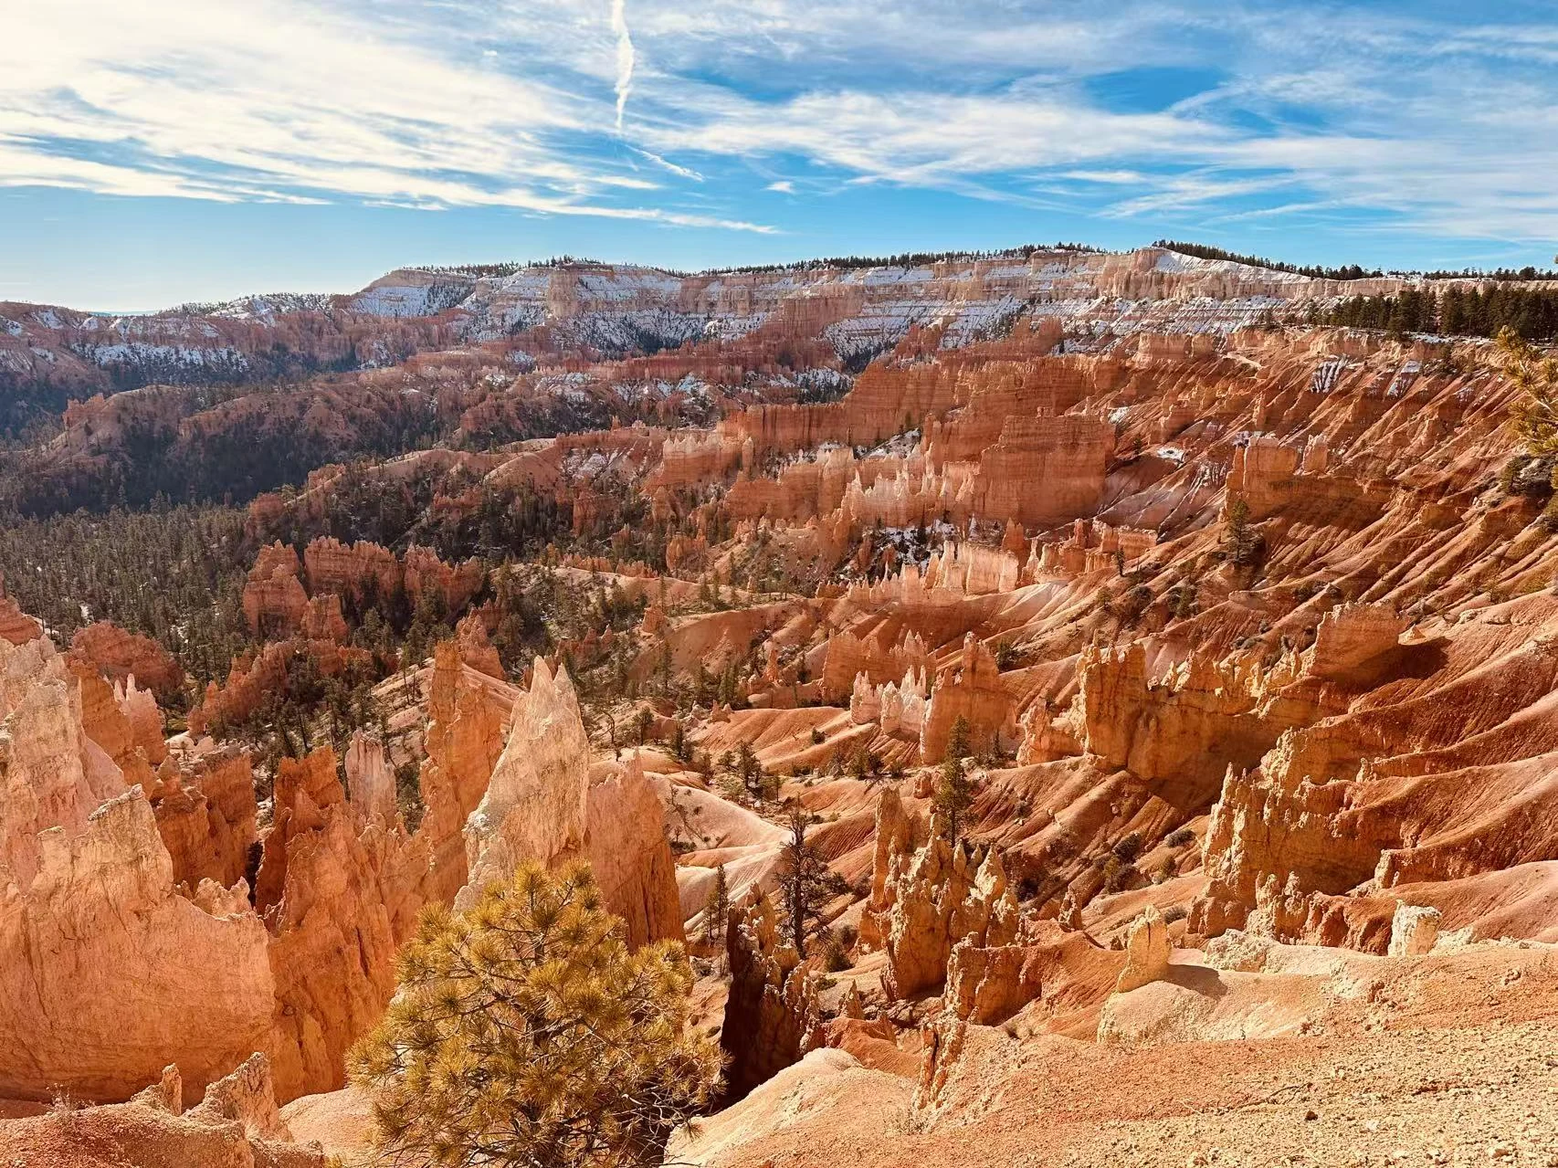
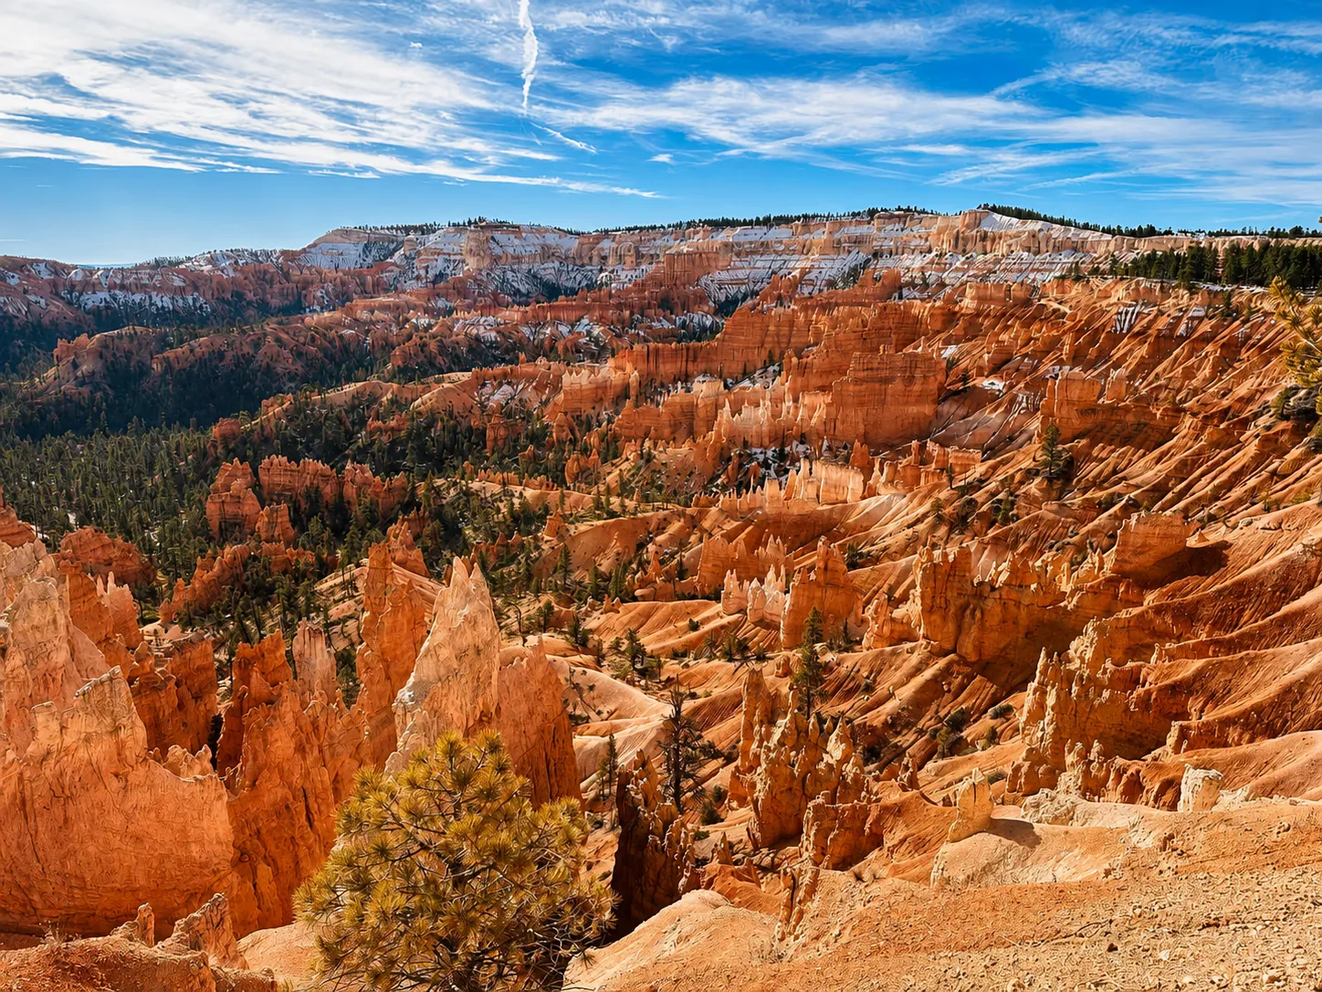
optimize performance: webp images and content-visibility
- convert 18 large jpg/png assets to webp, cutting page weight ~70%
  (home 5.5MB -> 1.6MB, visual-work ~8MB -> 1.3MB)
- add content-visibility:auto to sections for smoother scrolling (164fps)
- sync image references and test contracts to webp paths

diff --git a/index.html b/index.html
@@ -132,7 +132,7 @@ html[lang="zh"] .nav .brand .en{font-family:var(--mono);}
 
 /* ---------- layout primitives ---------- */
 .wrap{max-width:var(--maxw);margin:0 auto;padding-left:var(--gut);padding-right:var(--gut);}
-section{position:relative;}
+section{position:relative;content-visibility:auto;contain-intrinsic-size:auto 900px;}
 .band{padding-block:clamp(88px,12vw,168px);}
 .divider{height:1px;background:var(--line);max-width:var(--maxw);margin:0 auto;}
 
@@ -376,7 +376,7 @@ html.js.motion-desktop [data-reveal="line"]::after,html.js.motion-desktop .lineg
       </div>
       <figure class="portrait" data-reveal="img" data-parallax="0.03">
         <div class="pframe">
-          <img src="assets/portrait/portrait.jpg" alt="Portrait of Mukun Sun" loading="lazy" decoding="async">
+          <img src="assets/portrait/portrait.webp" alt="Portrait of Mukun Sun" loading="lazy" decoding="async">
           <span class="pglow" aria-hidden="true"></span>
         </div>
         <figcaption class="pcap"></figcaption>
@@ -408,7 +408,7 @@ html.js.motion-desktop [data-reveal="line"]::after,html.js.motion-desktop .lineg
             <a class="experience-link" href="projects/vertex-reddit.html">Learn more about this <span aria-hidden="true">→</span></a>
           </div>
           <figure class="experience-media" data-reveal="img">
-            <img src="assets/internship/VertexMkt/1.jpg" width="1279" height="1706" alt="A bright shared workspace at Vertex Marketing in Shenzhen" loading="lazy" decoding="async">
+            <img src="assets/internship/VertexMkt/1.webp" width="1279" height="1706" alt="A bright shared workspace at Vertex Marketing in Shenzhen" loading="lazy" decoding="async">
           </figure>
         </div>
       </article>
@@ -424,7 +424,7 @@ html.js.motion-desktop [data-reveal="line"]::after,html.js.motion-desktop .lineg
             <a class="experience-link" href="projects/suu-teaching-assistant.html">Learn more about this <span aria-hidden="true">→</span></a>
           </div>
           <figure class="experience-media" data-reveal="img">
-            <img src="assets/internship/SUU_TA/classroom.jpg" width="1921" height="1279" alt="Mukun Sun speaking to an English writing class in Wuhan" loading="lazy" decoding="async">
+            <img src="assets/internship/SUU_TA/classroom.webp" width="1921" height="1279" alt="Mukun Sun speaking to an English writing class in Wuhan" loading="lazy" decoding="async">
           </figure>
         </div>
       </article>
@@ -453,19 +453,19 @@ html.js.motion-desktop [data-reveal="line"]::after,html.js.motion-desktop .lineg
     <div class="project-list">
       <a class="project-row project-row--campus" href="projects/campus-campaign.html" data-reveal>
         <span class="project-copy"><strong>Campus Integrated Campaign</strong><span>Promotion coordination for campus welcome and New Year events across online and offline channels.</span></span>
-        <span class="project-preview"><img src="assets/project/CampusGala/freshmen_welcome_gala.jpg" width="1600" height="1067" alt="A large campus gala audience facing a lit stage" loading="lazy" decoding="async"></span>
+        <span class="project-preview"><img src="assets/project/CampusGala/freshmen_welcome_gala.webp" width="1600" height="1067" alt="A large campus gala audience facing a lit stage" loading="lazy" decoding="async"></span>
         <span class="project-action">View project <span aria-hidden="true">→</span></span>
       </a>
 
       <a class="project-row project-row--hotel" href="projects/hotel-jazz.html" data-reveal>
         <span class="project-copy"><strong>Hotel × Jazz Brand Event</strong><span>Event concept, partner coordination, WeChat promotion, and visual identity for a hotel × jazz collaboration.</span></span>
-        <span class="project-preview"><img src="assets/project/Andi/andi_fest_2.png" width="1039" height="462" alt="Jazz musicians performing at a hotel beside an upright bass" loading="lazy" decoding="async"></span>
+        <span class="project-preview"><img src="assets/project/Andi/andi_fest_2.webp" width="1039" height="462" alt="Jazz musicians performing at a hotel beside an upright bass" loading="lazy" decoding="async"></span>
         <span class="project-action">View project <span aria-hidden="true">→</span></span>
       </a>
 
       <a class="project-row project-row--visual" href="projects/visual-work.html" data-reveal>
         <span class="project-copy"><strong>Selected Visual Work</strong><span>A selected archive of posters, print design, event visuals, and photography.</span></span>
-        <span class="project-preview"><img src="assets/visual_work/jazz_winter.jpg" width="989" height="1400" alt="Winter Jazz Concert key visual poster designed for a hotel jazz event" loading="lazy" decoding="async"></span>
+        <span class="project-preview"><img src="assets/visual_work/jazz_winter.webp" width="989" height="1400" alt="Winter Jazz Concert key visual poster designed for a hotel jazz event" loading="lazy" decoding="async"></span>
         <span class="project-action">View project <span aria-hidden="true">→</span></span>
       </a>
     </div>
@@ -520,7 +520,7 @@ html.js.motion-desktop [data-reveal="line"]::after,html.js.motion-desktop .lineg
     <div class="outside-gateway" data-reveal>
       <div class="outside-grid">
         <a class="outside-card outside-card--music" href="music.html">
-          <span class="outside-media"><img src="assets/music/suu_jazz_fest/performance.jpg" width="896" height="1193" alt="Mukun Sun performing upright bass at SUU Jazz Fest" loading="lazy" decoding="async"></span>
+          <span class="outside-media"><img src="assets/music/suu_jazz_fest/performance.webp" width="896" height="1193" alt="Mukun Sun performing upright bass at SUU Jazz Fest" loading="lazy" decoding="async"></span>
           <strong>Music</strong>
           <p>Upright and electric bass performance, ensemble work, and the planning behind live events.</p>
         </a>
@@ -530,7 +530,7 @@ html.js.motion-desktop [data-reveal="line"]::after,html.js.motion-desktop .lineg
           <p>Small studies in performance, objects, light, and atmosphere.</p>
         </a>
         <a class="outside-card outside-card--travel" href="travel.html">
-          <span class="outside-media"><img src="assets/travel/bryce_canyon.png" width="1448" height="1086" alt="Bryce Canyon amphitheater in warm afternoon light" loading="lazy" decoding="async"></span>
+          <span class="outside-media"><img src="assets/travel/bryce_canyon.webp" width="1448" height="1086" alt="Bryce Canyon amphitheater in warm afternoon light" loading="lazy" decoding="async"></span>
           <strong>Travel</strong>
           <p>Notes from cities and landscapes that sharpen how I notice culture, rhythm, and everyday detail.</p>
         </a>

diff --git a/projects/visual-work.html b/projects/visual-work.html
@@ -40,7 +40,7 @@
 
   <main class="detail-wrap">
     <header class="detail-hero" id="visual-hero" data-outside-hero data-reveal>
-      <div class="outside-hero-media" aria-hidden="true"><img src="../assets/visual_work/hotone_main.jpg" width="1486" height="2106" alt="" decoding="async"></div>
+      <div class="outside-hero-media" aria-hidden="true"><img src="../assets/visual_work/hotone_main.webp" width="1486" height="2106" alt="" decoding="async"></div>
       <h1>Selected Visual Work</h1>
       <div class="detail-hero-copy">
         <p class="detail-eyebrow">Visual Work</p>
@@ -51,13 +51,13 @@
     <section class="detail-section" id="visual-gallery" aria-labelledby="visual-gallery-title" data-reveal>
       <h2 id="visual-gallery-title" class="visually-hidden">Selected Visual Work</h2>
       <div class="detail-grid visual-grid">
-        <figure class="detail-media visual-feature" data-reveal="media"><a class="media-button" href="../assets/visual_work/hotone_main.jpg" data-enlarge><img src="../assets/visual_work/hotone_main.jpg" width="1486" height="2106" alt="HOTONE tenth-anniversary product poster for the Ampero II Stomp" loading="lazy" decoding="async"></a><figcaption>HOTONE · Tenth-Anniversary Poster</figcaption></figure>
-        <figure class="detail-media" data-reveal="media"><a class="media-button" href="../assets/visual_work/hotone_guitar.jpg" data-enlarge><img src="../assets/visual_work/hotone_guitar.jpg" width="1141" height="1626" alt="HOTONE product poster featuring an electric guitar and effects processor" loading="lazy" decoding="async"></a><figcaption>HOTONE · Release Your Musical Passion</figcaption></figure>
-        <figure class="detail-media" data-reveal="media"><a class="media-button" href="../assets/visual_work/hotone_pedal.jpg" data-enlarge><img src="../assets/visual_work/hotone_pedal.jpg" width="1322" height="1880" alt="HOTONE Ampero II Stomp product-detail poster" loading="lazy" decoding="async"></a><figcaption>HOTONE · Ampero II Stomp Detail</figcaption></figure>
-        <figure class="detail-media" data-reveal="media"><a class="media-button" href="../assets/visual_work/jazz_coast_a.png" data-enlarge><img src="../assets/visual_work/jazz_coast_a.png" width="1086" height="1448" alt="Coastline JAZZ NIGHT concert poster in magenta and deep blue" loading="lazy" decoding="async"></a><figcaption>JAZZ NIGHT · Coastline</figcaption></figure>
-        <figure class="detail-media" data-reveal="media"><a class="media-button" href="../assets/visual_work/jazz_coast_b.png" data-enlarge><img src="../assets/visual_work/jazz_coast_b.png" width="1086" height="1448" alt="Coastline JAZZ NIGHT poster variation in orange and dark red" loading="lazy" decoding="async"></a><figcaption>JAZZ NIGHT · Variation</figcaption></figure>
-        <figure class="detail-media visual-feature" data-reveal="media"><a class="media-button" href="../assets/visual_work/jazz_winter.jpg" data-enlarge><img src="../assets/visual_work/jazz_winter.jpg" width="989" height="1400" alt="Winter Jazz Concert key visual poster designed for a hotel jazz event" loading="lazy" decoding="async"></a><figcaption>Winter Jazz Concert · Hotel Event Visual</figcaption></figure>
-        <figure class="detail-media visual-feature" data-reveal="media"><a class="media-button" href="../assets/visual_work/banner_museum.png" data-enlarge><img src="../assets/visual_work/banner_museum.png" width="1983" height="793" alt="International Museum Day banner for Wuhan Museum" loading="lazy" decoding="async"></a><figcaption>International Museum Day · Wuhan Museum</figcaption></figure>
+        <figure class="detail-media visual-feature" data-reveal="media"><a class="media-button" href="../assets/visual_work/hotone_main.webp" data-enlarge><img src="../assets/visual_work/hotone_main.webp" width="1486" height="2106" alt="HOTONE tenth-anniversary product poster for the Ampero II Stomp" loading="lazy" decoding="async"></a><figcaption>HOTONE · Tenth-Anniversary Poster</figcaption></figure>
+        <figure class="detail-media" data-reveal="media"><a class="media-button" href="../assets/visual_work/hotone_guitar.webp" data-enlarge><img src="../assets/visual_work/hotone_guitar.webp" width="1141" height="1626" alt="HOTONE product poster featuring an electric guitar and effects processor" loading="lazy" decoding="async"></a><figcaption>HOTONE · Release Your Musical Passion</figcaption></figure>
+        <figure class="detail-media" data-reveal="media"><a class="media-button" href="../assets/visual_work/hotone_pedal.webp" data-enlarge><img src="../assets/visual_work/hotone_pedal.webp" width="1322" height="1880" alt="HOTONE Ampero II Stomp product-detail poster" loading="lazy" decoding="async"></a><figcaption>HOTONE · Ampero II Stomp Detail</figcaption></figure>
+        <figure class="detail-media" data-reveal="media"><a class="media-button" href="../assets/visual_work/jazz_coast_a.webp" data-enlarge><img src="../assets/visual_work/jazz_coast_a.webp" width="1086" height="1448" alt="Coastline JAZZ NIGHT concert poster in magenta and deep blue" loading="lazy" decoding="async"></a><figcaption>JAZZ NIGHT · Coastline</figcaption></figure>
+        <figure class="detail-media" data-reveal="media"><a class="media-button" href="../assets/visual_work/jazz_coast_b.webp" data-enlarge><img src="../assets/visual_work/jazz_coast_b.webp" width="1086" height="1448" alt="Coastline JAZZ NIGHT poster variation in orange and dark red" loading="lazy" decoding="async"></a><figcaption>JAZZ NIGHT · Variation</figcaption></figure>
+        <figure class="detail-media visual-feature" data-reveal="media"><a class="media-button" href="../assets/visual_work/jazz_winter.webp" data-enlarge><img src="../assets/visual_work/jazz_winter.webp" width="989" height="1400" alt="Winter Jazz Concert key visual poster designed for a hotel jazz event" loading="lazy" decoding="async"></a><figcaption>Winter Jazz Concert · Hotel Event Visual</figcaption></figure>
+        <figure class="detail-media visual-feature" data-reveal="media"><a class="media-button" href="../assets/visual_work/banner_museum.webp" data-enlarge><img src="../assets/visual_work/banner_museum.webp" width="1983" height="793" alt="International Museum Day banner for Wuhan Museum" loading="lazy" decoding="async"></a><figcaption>International Museum Day · Wuhan Museum</figcaption></figure>
       </div>
     </section>
   </main>

diff --git a/projects/suu-teaching-assistant.html b/projects/suu-teaching-assistant.html
@@ -37,7 +37,7 @@
 
   <main class="detail-wrap">
     <header class="detail-hero" id="teaching-hero" data-outside-hero data-reveal>
-      <div class="outside-hero-media" aria-hidden="true"><img src="../assets/internship/SUU_TA/classroom.jpg" width="1921" height="1279" alt="" decoding="async"></div>
+      <div class="outside-hero-media" aria-hidden="true"><img src="../assets/internship/SUU_TA/classroom.webp" width="1921" height="1279" alt="" decoding="async"></div>
       <h1>Teaching Assistant</h1>
       <div class="detail-hero-copy">
         <p class="detail-eyebrow">Southern Utah University · Internship</p>
@@ -69,8 +69,8 @@
     <section class="detail-section" id="teaching-media" aria-labelledby="teaching-media-title" data-reveal>
       <h2 id="teaching-media-title">In the Classroom</h2>
       <div class="detail-grid">
-        <figure class="detail-media" data-reveal="media"><a class="media-button" href="../assets/internship/SUU_TA/professor_classroom.jpg" data-enlarge><img src="../assets/internship/SUU_TA/professor_classroom.jpg" width="1279" height="1706" alt="An SUU instructor leading an English writing class in Wuhan" loading="lazy" decoding="async"></a><figcaption>English writing course · Wuhan</figcaption></figure>
-        <figure class="detail-media" data-reveal="media"><a class="media-button" href="../assets/internship/SUU_TA/with_professor.jpg" data-enlarge><img src="../assets/internship/SUU_TA/with_professor.jpg" width="1706" height="1279" alt="Mukun Sun with the SUU instructor after the teaching period" loading="lazy" decoding="async"></a><figcaption>After the teaching period · May 2026</figcaption></figure>
+        <figure class="detail-media" data-reveal="media"><a class="media-button" href="../assets/internship/SUU_TA/professor_classroom.webp" data-enlarge><img src="../assets/internship/SUU_TA/professor_classroom.webp" width="1279" height="1706" alt="An SUU instructor leading an English writing class in Wuhan" loading="lazy" decoding="async"></a><figcaption>English writing course · Wuhan</figcaption></figure>
+        <figure class="detail-media" data-reveal="media"><a class="media-button" href="../assets/internship/SUU_TA/with_professor.webp" data-enlarge><img src="../assets/internship/SUU_TA/with_professor.webp" width="1706" height="1279" alt="Mukun Sun with the SUU instructor after the teaching period" loading="lazy" decoding="async"></a><figcaption>After the teaching period · May 2026</figcaption></figure>
       </div>
     </section>
   </main>

diff --git a/music.html b/music.html
@@ -78,7 +78,7 @@
           <p>Named a finalist, then organized rehearsals and coordinated the band for a performance at the SUU Alumni Center. Upright bass.</p>
         </div>
         <figure class="detail-media music-event-media" data-reveal="media">
-          <a class="media-button" href="assets/music/nomination/with_friends.jpg" data-enlarge><img src="assets/music/nomination/with_friends.jpg" width="1279" height="1706" alt="Mukun Sun with the band for the SUU International Student Artist performance" loading="lazy" decoding="async"></a>
+          <a class="media-button" href="assets/music/nomination/with_friends.webp" data-enlarge><img src="assets/music/nomination/with_friends.webp" width="1279" height="1706" alt="Mukun Sun with the band for the SUU International Student Artist performance" loading="lazy" decoding="async"></a>
           <figcaption>After the Alumni Center performance</figcaption>
         </figure>
       </article>
@@ -104,7 +104,7 @@
       <article class="music-event music-event--media" id="music-jazz-fest">
         <div class="music-event-meta"><time datetime="2026-02-21">Feb 21, 2026</time><span>Cedar City, Utah</span></div>
         <div class="music-event-copy"><h2>SUU Jazz Fest</h2><p>Performed on upright bass with the SUU Jazz Big Band at the Heritage Center.</p><a class="music-watch" href="https://www.youtube.com/live/OFijT_vkp8c?si=OqEdKbXtynljWJtd" target="_blank" rel="noopener noreferrer">Watch the performance ↗</a></div>
-        <figure class="detail-media music-event-media" data-reveal="media"><a class="media-button" href="assets/music/suu_jazz_fest/performance.jpg" data-enlarge><img src="assets/music/suu_jazz_fest/performance.jpg" width="896" height="1193" alt="Mukun Sun playing upright bass on the SUU Jazz Fest stage" loading="lazy" decoding="async"></a><figcaption>Heritage Center · SUU Jazz Fest</figcaption></figure>
+        <figure class="detail-media music-event-media" data-reveal="media"><a class="media-button" href="assets/music/suu_jazz_fest/performance.webp" data-enlarge><img src="assets/music/suu_jazz_fest/performance.webp" width="896" height="1193" alt="Mukun Sun playing upright bass on the SUU Jazz Fest stage" loading="lazy" decoding="async"></a><figcaption>Heritage Center · SUU Jazz Fest</figcaption></figure>
       </article>
 
       <article class="music-event music-event--media" id="music-campus-concert">

diff --git a/projects/hotel-jazz.html b/projects/hotel-jazz.html
@@ -40,7 +40,7 @@
 
   <main class="detail-wrap">
     <header class="detail-hero" id="hotel-hero" data-outside-hero data-reveal>
-      <div class="outside-hero-media" aria-hidden="true"><img src="../assets/project/Andi/andi_fest.jpg" width="1280" height="960" alt="" decoding="async"></div>
+      <div class="outside-hero-media" aria-hidden="true"><img src="../assets/project/Andi/andi_fest.webp" width="1280" height="960" alt="" decoding="async"></div>
       <h1>Hotel × Jazz</h1>
       <div class="detail-hero-copy">
         <p class="detail-eyebrow">Hotel &amp; Art Event</p>
@@ -63,14 +63,14 @@
       <h2 id="hotel-media-title">Event views</h2>
       <div class="detail-grid">
         <figure class="detail-media" data-reveal="media">
-          <a class="media-button" href="../assets/project/Andi/andi_fest_2.png" data-enlarge>
-            <img src="../assets/project/Andi/andi_fest_2.png" width="1039" height="462" alt="Wide Hotel × Jazz event composition showing the performance and instruments" loading="lazy" decoding="async">
+          <a class="media-button" href="../assets/project/Andi/andi_fest_2.webp" data-enlarge>
+            <img src="../assets/project/Andi/andi_fest_2.webp" width="1039" height="462" alt="Wide Hotel × Jazz event composition showing the performance and instruments" loading="lazy" decoding="async">
           </a>
           <figcaption>Hotel × Jazz · balcony performance</figcaption>
         </figure>
         <figure class="detail-media" data-reveal="media">
-          <a class="media-button" href="../assets/project/Andi/andi_fest.jpg" data-enlarge>
-            <img src="../assets/project/Andi/andi_fest.jpg" width="1280" height="960" alt="Audience and performance area at the Hotel × Jazz event" loading="lazy" decoding="async">
+          <a class="media-button" href="../assets/project/Andi/andi_fest.webp" data-enlarge>
+            <img src="../assets/project/Andi/andi_fest.webp" width="1280" height="960" alt="Audience and performance area at the Hotel × Jazz event" loading="lazy" decoding="async">
           </a>
           <figcaption>Hotel × Jazz · audience and performance area</figcaption>
         </figure>

diff --git a/projects/campus-campaign.html b/projects/campus-campaign.html
@@ -40,7 +40,7 @@
 
   <main class="detail-wrap">
     <header class="detail-hero" id="campus-hero" data-outside-hero data-reveal>
-      <div class="outside-hero-media" aria-hidden="true"><img src="../assets/project/CampusGala/freshmen_welcome_gala.jpg" width="1600" height="1067" alt="" decoding="async"></div>
+      <div class="outside-hero-media" aria-hidden="true"><img src="../assets/project/CampusGala/freshmen_welcome_gala.webp" width="1600" height="1067" alt="" decoding="async"></div>
       <h1>Campus Integrated Campaign</h1>
       <div class="detail-hero-copy">
         <p class="detail-eyebrow">Campus Campaign</p>
@@ -62,8 +62,8 @@
     <section class="detail-section" id="campus-media" aria-labelledby="campus-media-title" data-reveal>
       <h2 id="campus-media-title">Event view</h2>
       <figure class="detail-media" data-reveal="media">
-        <a class="media-button" href="../assets/project/CampusGala/freshmen_welcome_gala.jpg" data-enlarge>
-          <img src="../assets/project/CampusGala/freshmen_welcome_gala.jpg" width="1600" height="1067" alt="A large campus gala audience facing a lit stage" loading="lazy" decoding="async">
+        <a class="media-button" href="../assets/project/CampusGala/freshmen_welcome_gala.webp" data-enlarge>
+          <img src="../assets/project/CampusGala/freshmen_welcome_gala.webp" width="1600" height="1067" alt="A large campus gala audience facing a lit stage" loading="lazy" decoding="async">
         </a>
         <figcaption>Campus welcome gala · event view</figcaption>
       </figure>

diff --git a/detail.css b/detail.css
@@ -14,6 +14,8 @@ button:disabled,[aria-disabled="true"]{opacity:.55;cursor:not-allowed;pointer-ev
 
 .progress{display:none;position:fixed;inset:0 auto auto 0;z-index:30;width:100%;height:2px;background:linear-gradient(90deg,var(--color-accent-deep),var(--color-accent-bright));transform:scaleX(0);transform-origin:left;will-change:transform;}
 .detail-wrap{width:min(100% - 2 * clamp(20px,5vw,80px),1240px);margin-inline:auto;}
+.detail-section{content-visibility:auto;contain-intrinsic-size:auto 700px;}
+.music-event,.music-study-row{content-visibility:auto;contain-intrinsic-size:auto 420px;}
 .detail-nav{position:fixed;inset:0 0 auto;z-index:20;display:flex;align-items:center;justify-content:space-between;gap:var(--space-sm);min-height:64px;padding-inline:clamp(20px,5vw,80px);border-bottom:1px solid var(--color-rule);background:var(--effect-nav-surface-soft);backdrop-filter:blur(var(--effect-nav-blur)) saturate(var(--effect-nav-saturation));-webkit-backdrop-filter:blur(var(--effect-nav-blur)) saturate(var(--effect-nav-saturation));transition:background var(--dur-medium) var(--ease-out),border-color var(--dur-medium) var(--ease-out);}
 .detail-nav.solid{background:var(--effect-nav-surface);border-color:var(--color-rule);}
 .detail-nav .brand{display:flex;align-items:center;min-height:44px;font-family:var(--font-display);font-size:var(--text-sm);font-weight:600;letter-spacing:.12em;color:var(--color-ink);white-space:nowrap;}

diff --git a/travel.html b/travel.html
@@ -37,7 +37,7 @@
 
   <main class="detail-wrap">
     <header class="detail-hero" id="travel-hero" data-outside-hero data-reveal>
-      <div class="outside-hero-media" aria-hidden="true"><img src="assets/travel/bryce_canyon.png" width="1448" height="1086" alt="" decoding="async"></div>
+      <div class="outside-hero-media" aria-hidden="true"><img src="assets/travel/bryce_canyon.webp" width="1448" height="1086" alt="" decoding="async"></div>
       <h1>Travel</h1>
       <div class="detail-hero-copy"><p class="detail-eyebrow">Places visited</p><p class="detail-deck">Continuously updating...</p></div>
     </header>
